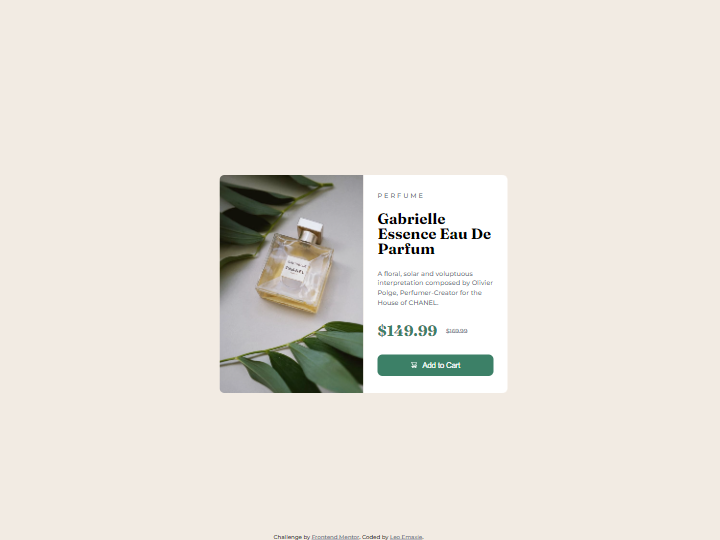
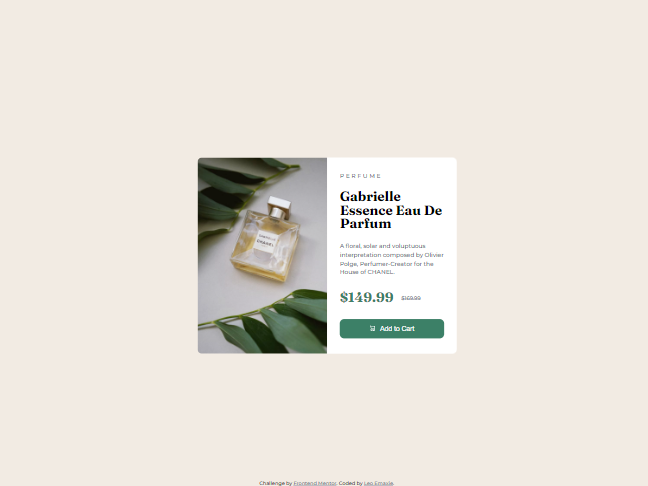
Added Laptop and Desktop screnshot

Changed region(s): [[0.5247, 0.3395, 0.679, 0.679], [0.3704, 0.9877, 0.6173, 1.0]]

diff --git a/style.css b/style.css
@@ -174,7 +174,7 @@ p,
 
     .attribution {
         position: absolute;
-        left: 35%;
+        left: 40%;
         bottom: 0;
     }
 }
